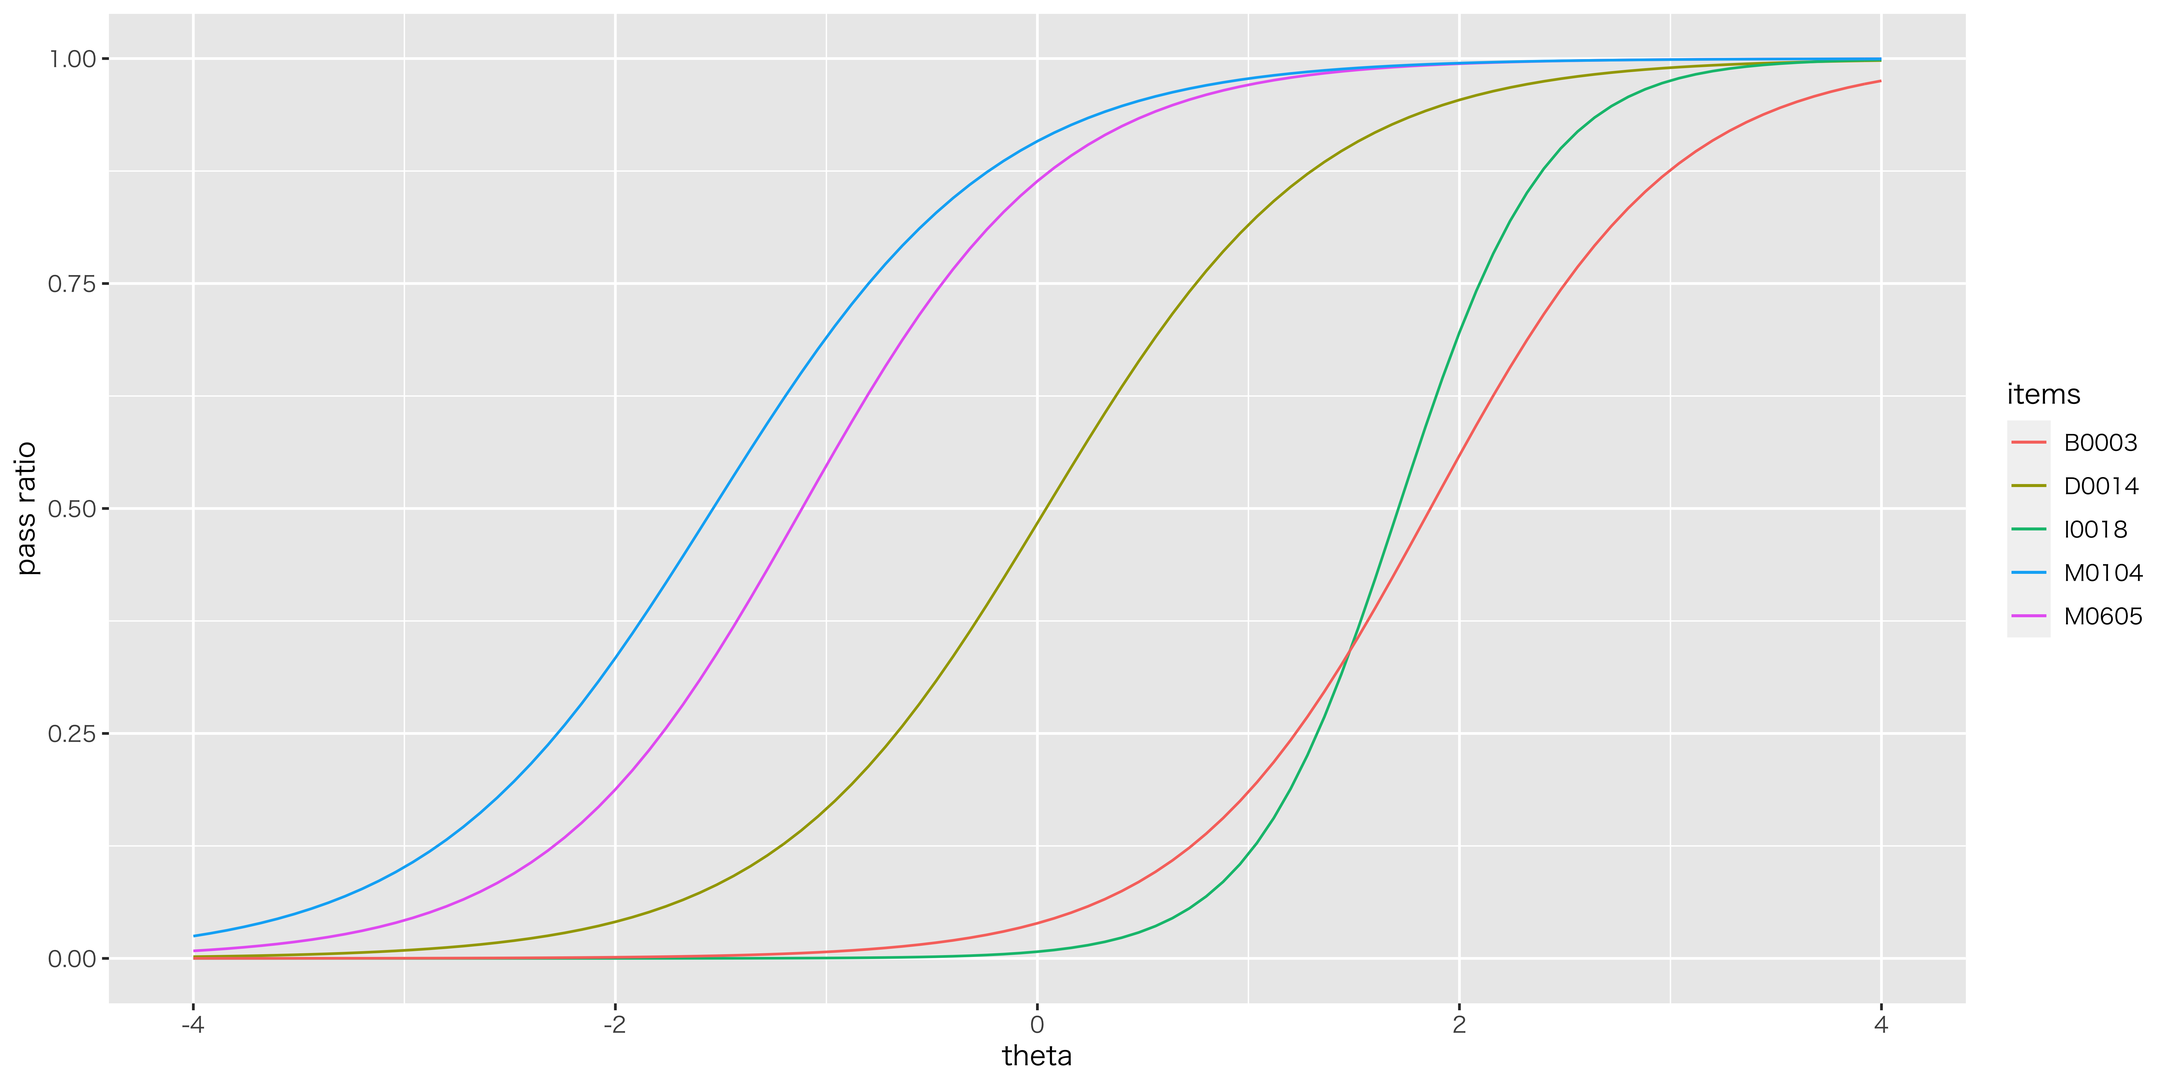
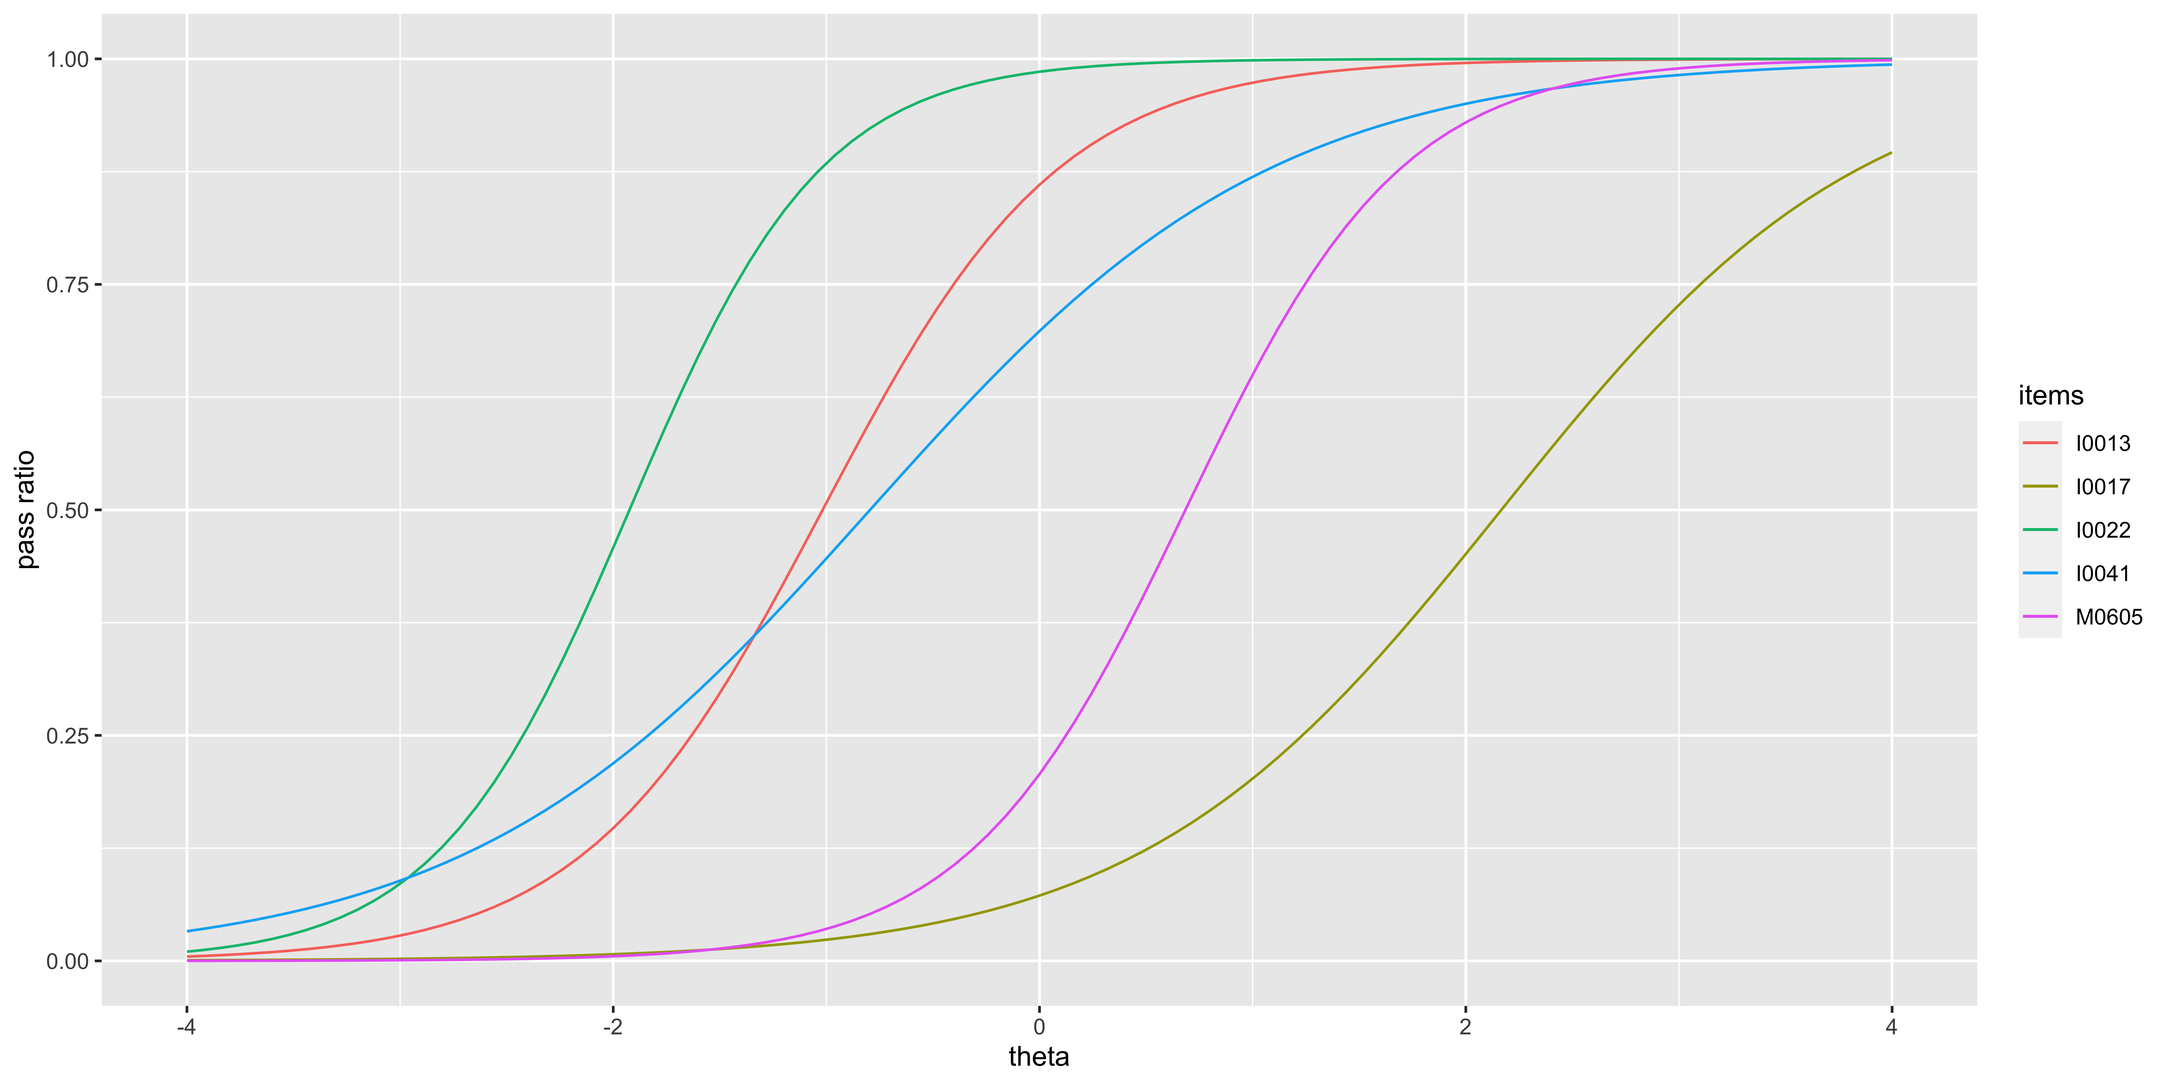
0317

diff --git a/course_materials2/Dkiso2_04.tex b/course_materials2/Dkiso2_04.tex
@@ -70,7 +70,7 @@
      \label{fig::04_03}
     \end{center}
 \end{figure}
-このように困難度を表現するパラメータを追加したモデルを\keyterm{1パラメータロジスティックモデル}{1ぱらめーたろじすてぃっくもでる}{One Parameter Logistic model}と言います。実際のテストの回答パターンにたいし，各項目にこの曲線を当てはめて困難度を推定することで，項目を評価できるようになります。
+このように困難度を表現するパラメータを追加したモデルを\keyterm{1パラメータロジスティックモデル}{1ぱらめーたろじすてぃっくもでる}{One Parameter Logistic model}と言います。実際のテストの回答パターンにたいし，各項目にこの曲線を当てはめて困難度を推定することで，項目を評価できるようになります。このように項目の特徴を描く曲線のことを\keyterm{項目特徴曲線}{こうもくとくちょうきょくせん}{Item Characteristic Curve, ICC}といいます。
 
 さらにパラメータを追加して，次のようにすると\keyterm{2パラメータロジスティックモデル}{2ぱらめーたろじすてぃっくもでる}{Two Parameter Logistic model}になります。
 \[ p(\theta) = \frac{1}{1+exp(-1.7 a(\theta - b))} \]
@@ -88,9 +88,14 @@
 
 いずれにせよ，テストの結果から各項目の特徴を記述します。少し例示したほうがわかりやすいでしょう。図\ref{fig::04_05}には心理学データ解析基礎で行った試験の結果から，2PLロジスティックモデルを当てはめて項目分析をした例です\footnote{心理学データ解析基礎の授業では，過去の受講生のデータとさまざまな質問をプールしたデータを貯めてあります。みなさんが受けたテストには入っていない項目かもしれませんが，これまでどこかで出題され，回答パターンが得られている実際のテストです。}。同じデータの項目母数を表\ref{tbl::04_01}にも示しました。表\ref{tbl::04_01}の数字と図\ref{fig::04_05}の曲線の対応をよく確認してください。
 
-例えば，項目\texttt{D0014}は困難度が0.04，識別力が0.91です。困難度が0近いということで，平均的な難易度の質問になっています。困難度母数$b=0.0$というのは偏差値50，すなわち$\theta=0$の人が正答する確率が50\%の質問という意味になります。今回の\texttt{D0014}は，偏差値50の人であれば48.39\%の確率で正答できます。偏差値が70($\theta=2$)であれば，95.40\%の確率で正答できることになります。ちなみにこの設問は，「ある連続変量について，一定の区間ごとに入る個数を数え，どの区間の出現度数が多いかを視覚的に確認したい時は，どのグラフを使うか」という選択問題でした。
+例えば，項目\texttt{I0022}は困難度が-1.92，識別力が1.30です。困難度がマイナスですので，これはかなり簡単な問題だということになります。具体的には，偏差値50すなわち$\theta=0$の人であっても98.58\%正解するわけですから，ほとんどの人にとって容易い問題であることがわかります。
+ちなみにこの問題，具体的には帰無仮説検定に関する問いで，「なんの仮定も置かない仮説あるいは「差がない」「偏りがない」といった仮説は何と呼ばれるか」というものでした\footnote{いうまでもないですが，答えは「帰無仮説」です。}。
 
-他にも項目\texttt{B0003}は困難度が1.86，識別力は1.01です。困難度が最も高いグラフで，図の曲線は右のほうにある赤いラインになっています。困難度が高いので，$\theta=0$でも3.91\%しか正答できません。難しい！$\theta=2$で55.89\%ですから，かなり勉強している人だけがわかるような問題というわけです。対して
+一方，困難度が0近いところの例として項目\texttt{M0605}をあげますが，これが平均的な難易度の質問になっています。困難度母数$b=0.0$であれば偏差値50，すなわち$\theta=0$の人が正答する確率が50\%の質問ということになりますが，
+今回の\texttt{M0605}はそれより少し難しいので，偏差値50の人で20.70\%の割合で正答できます。この問いについて偏差値が70($\theta=2$)であれば，92.96\%の確率で正答できることになりますし，
+偏差値30($\theta=-2$)であれば0.51\%，つまりほとんど正答は望めないということになります。ちなみにこの問題は「重回帰分析において，標準化されたデータを使って分析をすることで，モデルの適合度を上げることができる。」をYesかNoかで判断させるという質問でした。
+
+他にも項目\texttt{I0017}は困難度が2.17，識別力は0.69です。困難度が最も高いグラフで，図の曲線は一番右にあるラインになっています。ただ識別力がやや低いので，曲線はよりなだらかになっていますね。困難度が高いので，$\theta=0$でも7.24\%しか正答できません。難しい！$\theta=2$で45.10\%ですから，かなり能力の高い人でも半分は間違えるような問題です。ちなみにこれは標本分散の期待値が母分散からどれぐらいずれるのかを計算する問題でした。
 
 \begin{figure}[ht]
     \begin{center}
@@ -99,44 +104,67 @@
      \label{fig::04_05}
     \end{center}
 \end{figure}
+
 % latex table generated in R 4.0.4 by xtable 1.8-4 package
-% Tue Mar 16 16:12:47 2021
+% Wed Mar 17 09:22:06 2021
 \begin{table}[ht]
     \centering
-    \caption{項目母数の算出例}
-    \label{tbl::04_01}
     \begin{tabular}{rlrr}
       \hline
-     & 項目ID & 困難度母数$b$ & 識別力母数$a$ \\ 
+     & 項目ID & 困難度 & 識別力 \\ 
       \hline
-    1 & D0014 & 0.04 & 0.91 \\ 
-      2 & I0018 & 1.71 & 1.68 \\ 
-      3 & B0003 & 1.86 & 1.01 \\ 
-      4 & M0605 & -1.12 & 0.97 \\ 
-      5 & M0104 & -1.54 & 0.88 \\ 
+      1 & I0013 & -1.02 & 1.05 \\ 
+      2 & I0017 & 2.17 & 0.69 \\ 
+      3 & I0022 & -1.92 & 1.30 \\ 
+      4 & I0041 & -0.79 & 0.62 \\ 
+      5 & M0605 & 0.68 & 1.15 \\ 
        \hline
     \end{tabular}
     \end{table}
 
+\section{被験者母数の推定}
 
-% \item[被験者母数の特徴]被験者母数の推定方法について確認する。手元の情報を全て使い切って推定する，完全情報最尤推定法であり，古典的テスト理論の欠点を克服できることを理解する。
-% Mplus本から 
-% 項目反応理論における因子得点の推定は，上述の項目特性に基づいて行われます。
-% 項目特性を記述する数値，項目母数の数が一つの場合はラッシュモデル，あるいは1PLモデル，二つの場合は2PLモデル，三つの場合は3PLモデルと呼ばれます\footnote{ラッシュモデルはテスト内で項目母数が一つであるのに対し，1PLモデルは一種類の項目母数が項目ごとに算出されます。}。
+項目反応理論における因子得点の推定は，上述の項目特性に基づいて行われます。
+先ほどの図\ref{fig::04_05}をもとに説明します。ある回答者が項目\texttt{I0013}に正答したとしましょう。その人の能力値(因子得点,$\theta$)はどの辺りにあるかといえば，確率の曲線に沿った下の領域のどこかということになります(図\ref{fig::04_06})。この曲線，ICCは項目の特徴を表したもので，ある$\theta$の値の能力があればどの程度の確率で正答できるかを表した項目の特徴でもありますが，逆にある人の$\theta$がどのあたりにありそうかを示しているともいえます。
+例えばこのICCにおいて，$\theta$が0.5のときの通過率は86.05\%ですが，言い換えればこの項目に正解した人が$\theta=0.5$である可能性も高そうです。$\theta=-2$の通過率は14.71\%ぐらいですから，能力がこんなに低いとは思えませんし，一つの項目の話でしかないですが，希望的観測をするなら$\theta$がもっとたかい可能性もあるでしょう\footnote{$\theta$のありそうな「確率」とは言ってないことに注意してください。すぐにわかることですが，このICCの下の面積を積分しても1.0にはなりませんのでこれは確率ではなく，\keyterm{尤度}{ゆうど}{likelihood}のほうなのです！}。
 
-% いちばん単純なラッシュモデルを例に，項目特性からどのように因子得点を算出するのかを考えましょう。
-% 最初の例(図\ref{ICC})をもとに説明します。ある回答者が実線で表される項目に正答したとしましょう。その人の能力値（因子得点）はどの辺りにあるかといえば，確率の曲線にそっていますので，イメージ的には曲線の下部になります。次に，困難度のより高い，点線で表された項目に誤答したとしましょう。その人は，点線の下部領域外にあるはずです。実線の項目の下で，かつ，点線の項目の上にあるはずなので，図\ref{1PLcr}の塗りつぶされた領域の中に入ります。
-% \begin{figure}[htpb]
-% \begin{center}
-%  \includegraphics[width=10cm,height=10cm,keepaspectratio]{1PLcr.eps}
-%  \caption{推定される能力値の存在する確率}
-%  \label{1PLcr}
-% \end{center}
-% \end{figure}
-% この領域は回答者の能力値が存在する確率を表しています。例えば能力値$\theta$が1.0である確率が矢印で示した長さになります。難易度が高い方の項目に誤答していますから，能力値が2〜4になる確率は小さく，また難易度が低い方の項目には正答していますから，-2〜-1のような所にある確率も小さくなります。この確率が最も大きいところを，この二つの項目から推定されるこの人の能力値である，と考えるのが，最も尤もらしい推定であるといえるでしょう。
-% もちろんたった二つの問いで能力を見極めるのは難しく，ほかの値をとるであろう確率もまだまだ高い状態です。そこで，第三，第四の質問を重ねていき，推定値が存在するであろう領域を狭めていくのです。領域を狭めるように項目を選び，次々回答をしてもらうと，その都度その精度は高くなり，より特定的に能力値を推定することが出来るようになります。
+\begin{figure}[ht]
+    \begin{center}
+     \includegraphics[width=12cm,height=12cm,keepaspectratio,clip]{images/chapter04/Rplot04_06.png}
+     \caption{実際のテスト項目\texttt{I0013}に正答した人の能力がありそうな領域}
+     \label{fig::04_06}
+    \end{center}
+\end{figure}
 
-% 後に述べる多段階モデルでも基本的な考え方は同じで，回答者の能力値が存在する確率をしぼっていく，という方法で因子得点が算出されます。逆に言えば，一つの項目に回答が得られなかったからといって，全く推定できなくなるということはありません。精度は落ちるかもしれませんが，二つ以上の項目があれば「この値をとる確率がこの程度」という推定は可能なのです。これが，欠損値があっても因子得点の推定が出来る仕組みです。
+次に，困難度のより高い項目に\texttt{I0017}には\textbf{誤答}したとしましょう。その人は，\texttt{I0017}のICCの下の領域には\textbf{ない}はずです。項目\texttt{I0013}のICCの下で，かつ，項目\texttt{I0017}のICCの上にあるはずなので，図\ref{fig::04_07}のように塗りつぶされた領域の中に入ります。
+\begin{figure}[ht]
+    \begin{center}
+     \includegraphics[width=12cm,height=12cm,keepaspectratio,clip]{images/chapter04/Rplot04_07.png}
+     \caption{つぎのテスト項目\texttt{I0013}には誤答した人の能力がありそうな領域}
+     \label{fig::04_07}
+    \end{center}
+\end{figure}
+
+この二つの曲線の間にある，濃く彩られた領域の幅が，回答者の能力値がありそうな程度を表しているのです。図\ref{fig::04_07}には$\theta=0$の可能性の大きさを矢印で示してありますが，$\theta$の値はここだけに限らずこの曲線の幅のどこかです。ただ$\theta=2$や$\theta=-2$よりは$\theta=0$のほうが，より「あり得そう」な値だということがわかります。
+
+ここでさらに同じ人に，項目\texttt{M0605}の質問をして，この人がそれにも正解したとしましょう。この人の能力$\theta$のありそうな範囲はさらに絞り込むことができます(図\ref{fig::04_08})。
+\begin{figure}[ht]
+    \begin{center}
+     \includegraphics[width=12cm,height=12cm,keepaspectratio,clip]{images/chapter04/Rplot04_08.png}
+     \caption{さらにテスト項目\texttt{M0605}には正答した人の能力がありそうな領域}
+     \label{fig::04_08}
+    \end{center}
+\end{figure}
+項目\texttt{I0013}よりは難しい質問に正解したわけですから，$\theta=0$の可能性はグッと小さくなり，それよりも$\theta=2$ぐらいの方があり得そうだ，ということになってきます。このように，一つ一つの項目からこの人の能力$\theta$がどのあたりにありそうか，というのを絞っていき，テストに含まれる項目全部を使えば，かなり狭い領域で「この辺りにあるはずだ」と推定することができるでしょう。
+
+このIRTを用いた推定方法は，このようにテストの項目ごとにその特徴を分析できるのが特徴です。テストの中でも良い項目，悪い項目というのはあるでしょうが，どのように悪いのかを困難度や識別力といった項目の特徴を使って表現できます。これらの数字は，テストに含まれる項目ごとの難易度を相対的に比較していく中で作られるものであり，回答者の能力に依存するものではありません。テスト理論が被験者の特徴と項目の特徴を分離するところから始まったことを，改めて思い出してください。
+
+また，このような項目同士の比較から求められた項目の特徴をつかって，被験者の能力(因子得点)を推定する方法についても紹介しました。
+その過程の中で気づいたと思いますが，複数の回答をつうじてある回答者の能力$\theta$のありそうな領域が狭められていく中で，明らかにその人にとって簡単すぎる問題，難しすぎる問題は意味を成しません。例えば図\ref{fig::04_08}の段階まで絞り込まれているときに，項目\texttt{I0013}よりも簡単な\texttt{I0022}を出題しても，おそらくほぼ確実に正答し，そのことは「領域を狭める」ことにはなんの貢献もしないでしょう。回答者の能力に相応しい質問を選んで出すことができれば，とても効率よくその領域を絞り込んでいくことができます。こうした考え方は，次回お話しする\keyterm{コンピュータ適応型テスト}{こんぴゅーたてきおうがたてすと}{Computer Adapted Test}として実装されます。
+
+今回はテスト理論について紹介してきましたが，この考え方は正確テストなどで用いられているリッカート形式の尺度に応用できるように，発展していきます。次回はその辺りを解説していこうと思います。
+
 \section{課題}
-
+\paragraph{テスト理論と因子分析} 項目反応理論のロジスティックモデルについて，項目母数が何を意味しているか，項目母数が変わるとICCがどのように変化するかを自分で説明できるようになろう。
+\paragraph{項目反応理論の利点} 項目反応理論を用いた採点方法を使うと，どういう長短所があるだろうか。次回の内容に先駆けて，自分なりに考えてみよう。
 \end{document} 

diff --git a/course_materials2/Dkiso2_03.tex b/course_materials2/Dkiso2_03.tex
@@ -185,8 +185,8 @@ r_{jj}=a_{j1}^2+a_{j2}^2+ \cdots + a_{jm}^2 + d_j^2 = 1.0
 このように，因子分析モデルは第一定理で信頼性を，第二定理で妥当性をあらわすものになっているのです。
 
 \section{課題}
-\paragraph[テスト理論と因子分析] 因子分析モデルは古典的テスト理論をどのように発展させたのか，添字に注意しながら数式で表現してみよう。
-\paragraph[因子分析の定理の導出] 因子分析の定理の導出を自分でできるようになろう。
-\paragraph[因子分析の定理の意味] 因子分析の定理が何を意味しているのか，自分なりの言葉で説明してみよう。
+\paragraph{テスト理論と因子分析} 因子分析モデルは古典的テスト理論をどのように発展させたのか，添字に注意しながら数式で表現してみよう。
+\paragraph{因子分析の定理の導出} 因子分析の定理の導出を自分でできるようになろう。
+\paragraph{因子分析の定理の意味} 因子分析の定理が何を意味しているのか，自分なりの言葉で説明してみよう。
 
 \end{document} 

diff --git a/course_materials2/Dkiso2_book.tex b/course_materials2/Dkiso2_book.tex
@@ -1,7 +1,7 @@
 \documentclass{ltjsbook}
 \usepackage{../myStyle}
 %% バッチ処理をするので\lheadは必ず4行目にあること
-\lhead{version 0.4.7}
+\lhead{version 0.4.9}
 \usepackage{docmute}
 \begin{document}
 \title{心理学データ解析応用1/2　教材テキスト}
